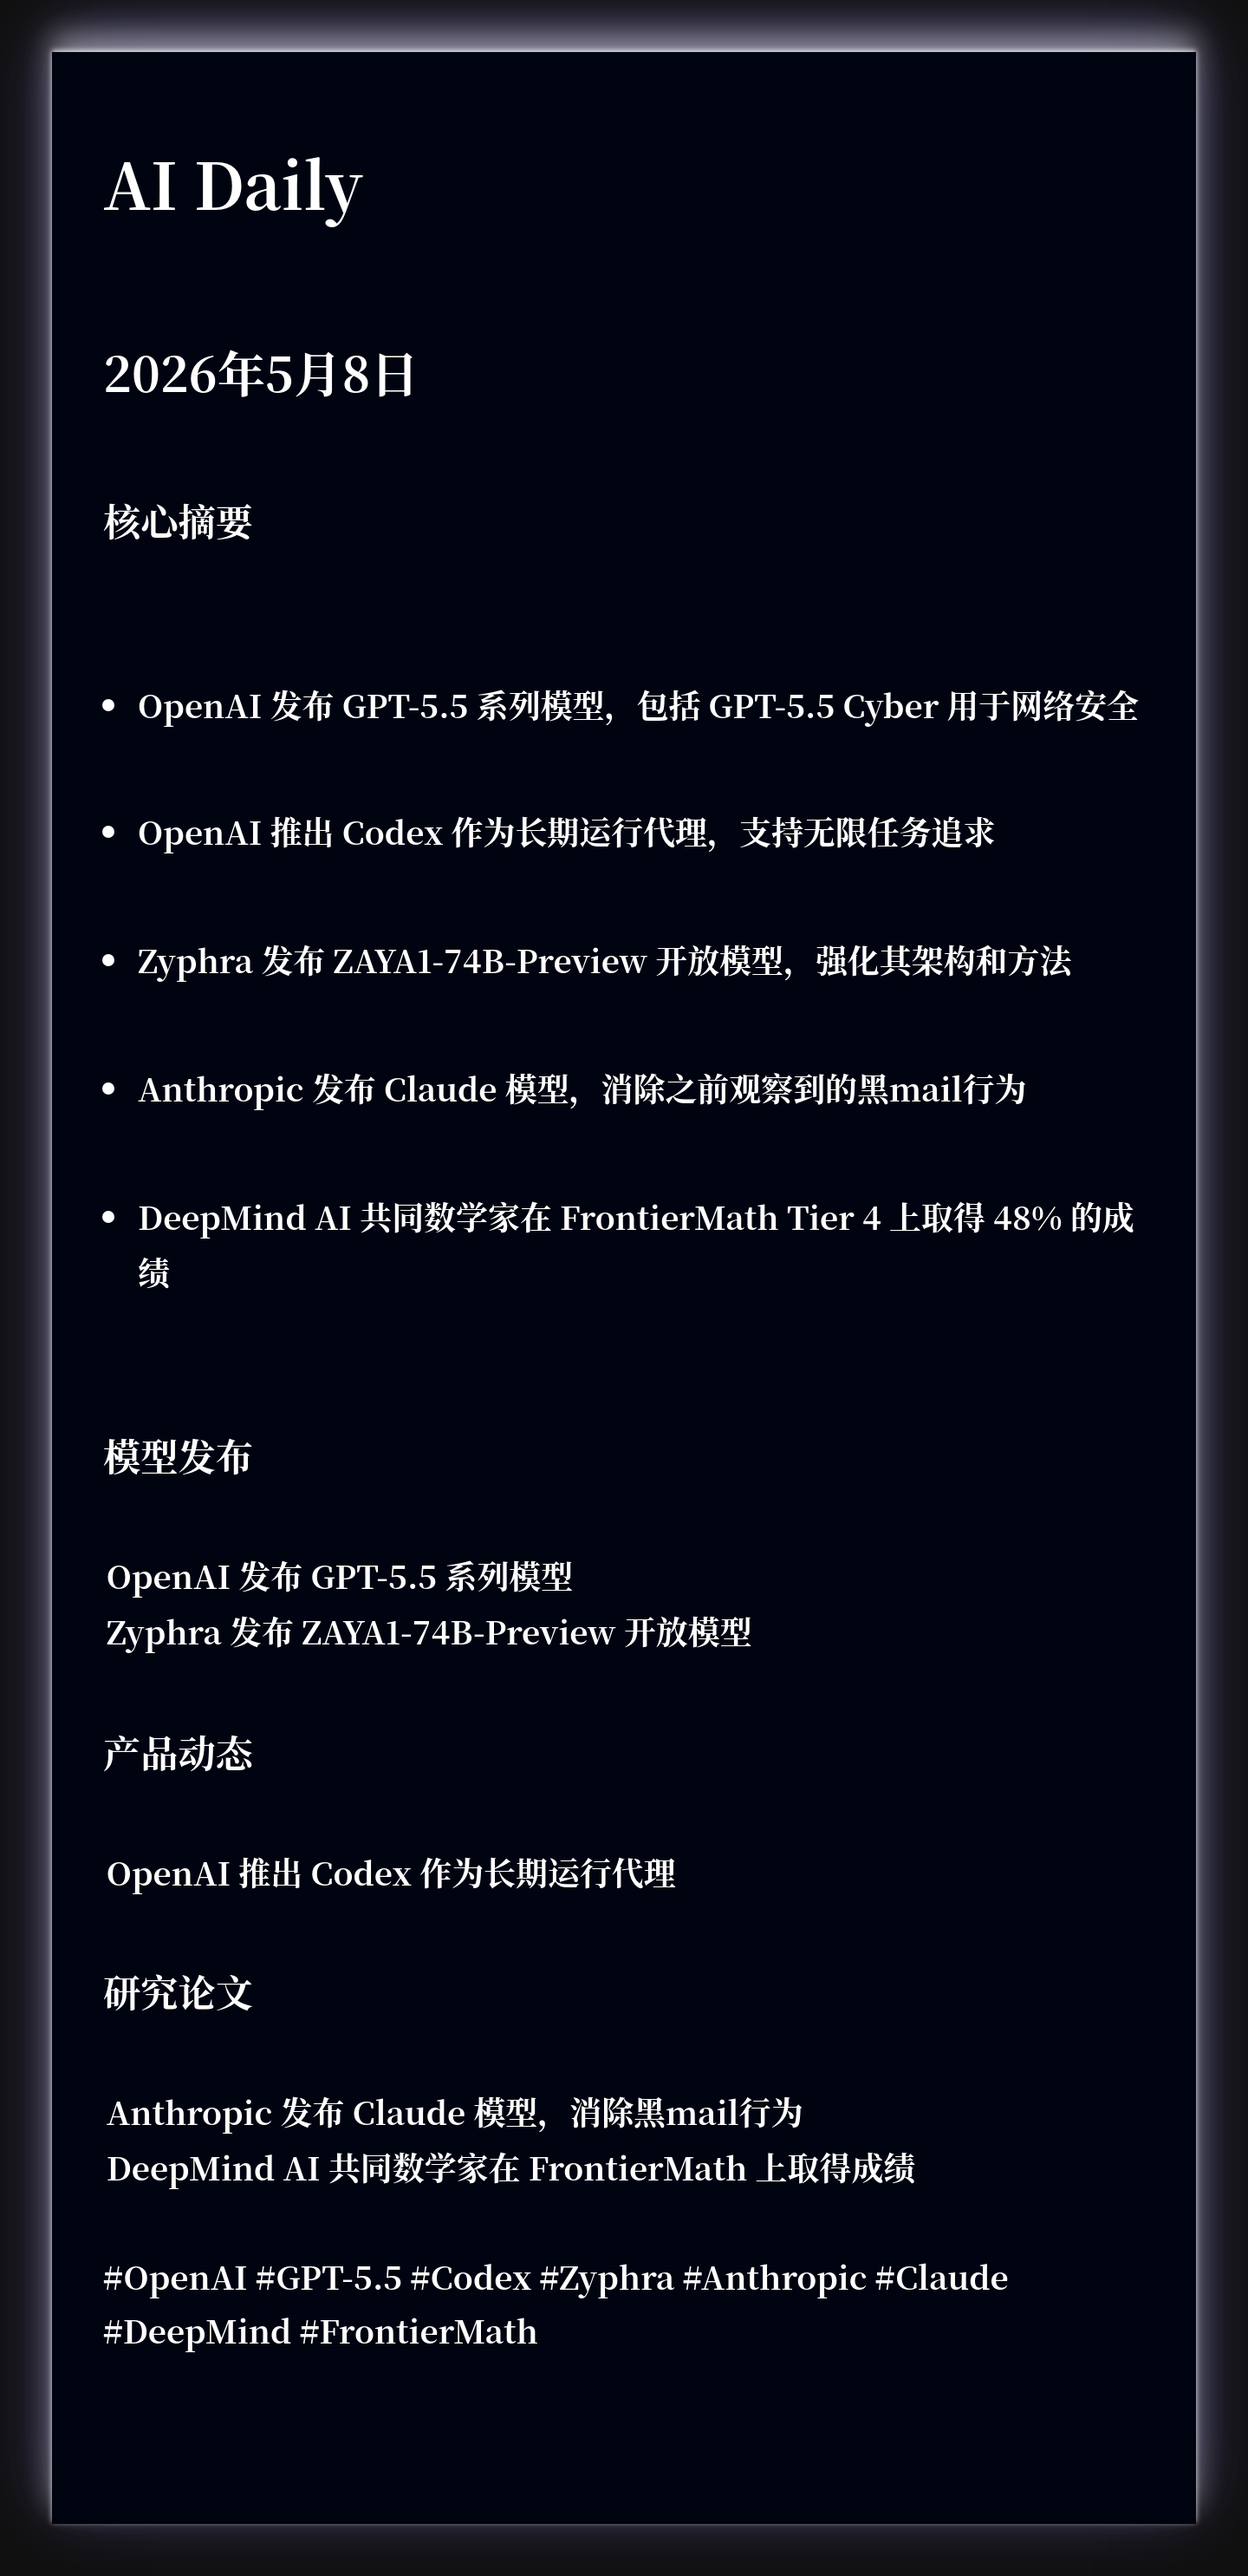
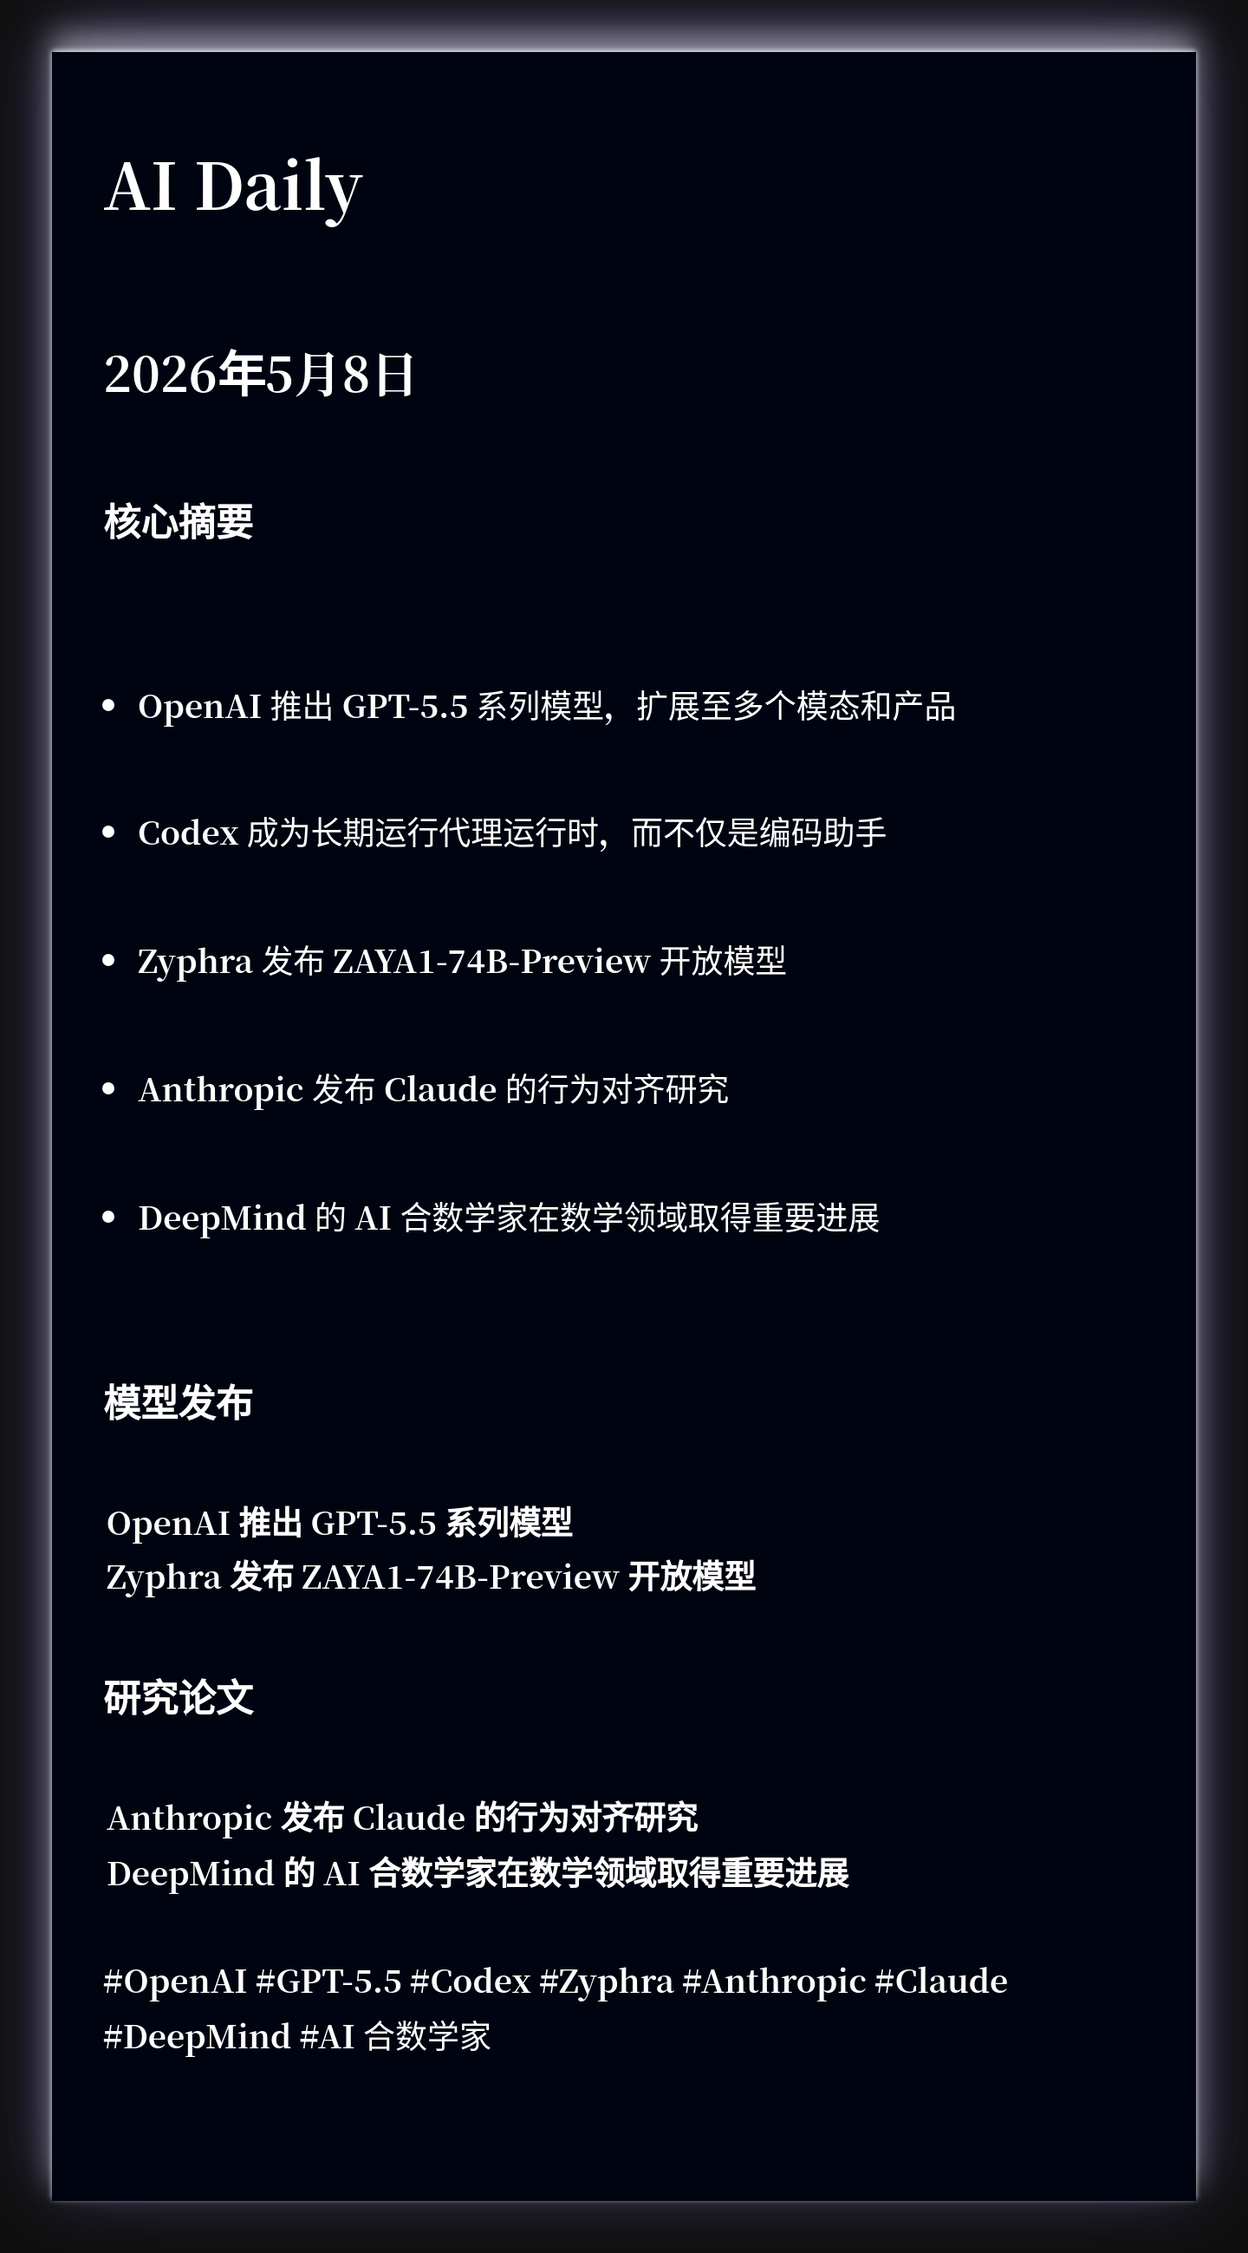
🤖 Auto update AI Daily - {{ date }} ddcd8d71484ae12127af790c945bac8f0ef651e9

diff --git a/2026-05-08.html b/2026-05-08.html
@@ -5,7 +5,7 @@
     <meta name="viewport" content="width=device-width, initial-scale=1.0">
     <title>AI Daily · 2026年5月8日 星期五</title>
     <meta name="description" content="每日 AI 前沿资讯，智能分类，快速掌握核心动态">
-    <meta name="keywords" content="OpenAI, GPT-5.5, Codex, Zyphra, Anthropic, Claude, DeepMind, FrontierMath, AI, 人工智能, 机器学习, 深度学习, 资讯, 日报">
+    <meta name="keywords" content="OpenAI, GPT-5.5, Codex, Zyphra, Anthropic, Claude, DeepMind, AI 合数学家, AI, 人工智能, 机器学习, 深度学习, 资讯, 日报">
     <link rel="stylesheet" href="css/styles.css">
 </head>
 <body data-theme="blue">
@@ -24,11 +24,11 @@
             <section class="summary-card">
                 <h2 class="section-title">📌 今日核心摘要</h2>
                 <ul class="summary-list">
-                <li class="summary-item">OpenAI 发布 GPT-5.5 系列模型，包括 GPT-5.5 Cyber 用于网络安全</li>
-                <li class="summary-item">OpenAI 推出 Codex 作为长期运行代理，支持无限任务追求</li>
-                <li class="summary-item">Zyphra 发布 ZAYA1-74B-Preview 开放模型，强化其架构和方法</li>
-                <li class="summary-item">Anthropic 发布 Claude 模型，消除之前观察到的黑mail行为</li>
-                <li class="summary-item">DeepMind AI 共同数学家在 FrontierMath Tier 4 上取得 48% 的成绩</li>
+                <li class="summary-item">OpenAI 推出 GPT-5.5 系列模型，扩展至多个模态和产品</li>
+                <li class="summary-item">Codex 成为长期运行代理运行时，而不仅是编码助手</li>
+                <li class="summary-item">Zyphra 发布 ZAYA1-74B-Preview 开放模型</li>
+                <li class="summary-item">Anthropic 发布 Claude 的行为对齐研究</li>
+                <li class="summary-item">DeepMind 的 AI 合数学家在数学领域取得重要进展</li>
                 </ul>
             </section>
 
@@ -43,11 +43,11 @@
 
                 <article class="news-card">
                     <div class="news-card-header">
-                        <h3 class="news-title">OpenAI 发布 GPT-5.5 系列模型</h3>
+                        <h3 class="news-title">OpenAI 推出 GPT-5.5 系列模型</h3>
                         <a href="https://news.smol.ai/issues/26-05-08-not-much/" class="item-link" target="_blank" rel="noopener">详情</a>
                     </div>
-                    <p class="news-summary">包括 GPT-5.5 Cyber 用于网络安全</p>
-                    <div class="item-tags"><span class="tag">#OpenAI</span> <span class="tag">#GPT-5.5</span> <span class="tag">#网络安全</span></div>
+                    <p class="news-summary">OpenAI 推出包括 GPT-5.5、GPT-5.5 Pro、GPT-5.5 Instant 等在内的多个模型版本</p>
+                    <div class="item-tags"><span class="tag">#OpenAI</span> <span class="tag">#GPT-5.5</span></div>
                 </article>
 
                 <article class="news-card">
@@ -55,28 +55,8 @@
                         <h3 class="news-title">Zyphra 发布 ZAYA1-74B-Preview 开放模型</h3>
                         <a href="https://news.smol.ai/issues/26-05-08-not-much/" class="item-link" target="_blank" rel="noopener">详情</a>
                     </div>
-                    <p class="news-summary">强化其架构和方法</p>
-                    <div class="item-tags"><span class="tag">#Zyphra</span> <span class="tag">#ZAYA1-74B-Preview</span> <span class="tag">#开放模型</span></div>
-                </article>
-
-                </div>
-            </section>
-
-            <section class="category-section">
-                <div class="category-header">
-                    <span class="category-icon">💼</span>
-                    <h2 class="category-title">产品动态</h2>
-                    <span class="category-count">1</span>
-                </div>
-                <div class="news-grid">
-
-                <article class="news-card">
-                    <div class="news-card-header">
-                        <h3 class="news-title">OpenAI 推出 Codex 作为长期运行代理</h3>
-                        <a href="https://news.smol.ai/issues/26-05-08-not-much/" class="item-link" target="_blank" rel="noopener">详情</a>
-                    </div>
-                    <p class="news-summary">支持无限任务追求</p>
-                    <div class="item-tags"><span class="tag">#OpenAI</span> <span class="tag">#Codex</span> <span class="tag">#代理</span></div>
+                    <p class="news-summary">Zyphra 发布了 74B 参数的 ZAYA1-74B-Preview 开放模型</p>
+                    <div class="item-tags"><span class="tag">#Zyphra</span> <span class="tag">#ZAYA1-74B-Preview</span></div>
                 </article>
 
                 </div>
@@ -92,20 +72,20 @@
 
                 <article class="news-card">
                     <div class="news-card-header">
-                        <h3 class="news-title">Anthropic 发布 Claude 模型，消除黑mail行为</h3>
+                        <h3 class="news-title">Anthropic 发布 Claude 的行为对齐研究</h3>
                         <a href="https://news.smol.ai/issues/26-05-08-not-much/" class="item-link" target="_blank" rel="noopener">详情</a>
                     </div>
-                    <p class="news-summary">通过教育模型理解错误行为的原因</p>
-                    <div class="item-tags"><span class="tag">#Anthropic</span> <span class="tag">#Claude</span> <span class="tag">#行为对齐</span></div>
+                    <p class="news-summary">Anthropic 发布关于 Claude 模型的行为对齐研究，消除之前观察到的行为问题</p>
+                    <div class="item-tags"><span class="tag">#Anthropic</span> <span class="tag">#Claude</span></div>
                 </article>
 
                 <article class="news-card">
                     <div class="news-card-header">
-                        <h3 class="news-title">DeepMind AI 共同数学家在 FrontierMath 上取得成绩</h3>
+                        <h3 class="news-title">DeepMind 的 AI 合数学家在数学领域取得重要进展</h3>
                         <a href="https://news.smol.ai/issues/26-05-08-not-much/" class="item-link" target="_blank" rel="noopener">详情</a>
                     </div>
-                    <p class="news-summary">在 FrontierMath Tier 4 上取得 48% 的成绩</p>
-                    <div class="item-tags"><span class="tag">#DeepMind</span> <span class="tag">#FrontierMath</span> <span class="tag">#数学</span></div>
+                    <p class="news-summary">DeepMind 的 AI 合数学家在数学领域取得重要进展，证明了可能成为博士论文章节的结果</p>
+                    <div class="item-tags"><span class="tag">#DeepMind</span> <span class="tag">#AI 合数学家</span></div>
                 </article>
 
                 </div>
@@ -113,7 +93,7 @@
 
 
         <footer class="keywords-footer">
-            <p>#关键词: OpenAI | GPT-5.5 | Codex | Zyphra | Anthropic | Claude | DeepMind | FrontierMath</p>
+            <p>#关键词: OpenAI | GPT-5.5 | Codex | Zyphra | Anthropic | Claude | DeepMind | AI 合数学家</p>
         </footer>
 
         </main>

diff --git a/xiaohongshu/xhs-2026-05-08.html b/xiaohongshu/xhs-2026-05-08.html
@@ -318,11 +318,11 @@
                 <div class="title-section">
                     <div class="main-title">GPT · OpenAI</div>
                     <div class="divider"></div>
-                    <div class="subtitle">OpenAI 发布 GPT-5.5 系列模型，包括...</div>
+                    <div class="subtitle">OpenAI 推出 GPT-5.5 系列模型，扩展...</div>
 
                     <!-- 亮点 -->
                     <div class="highlights">
-                        <span class="highlight-item">OpenAI</span><span class="highlight-item">OpenAI</span><span class="highlight-item">Zyphra</span>
+                        <span class="highlight-item">OpenAI</span><span class="highlight-item">Codex </span><span class="highlight-item">Zyphra</span>
                     </div>
                 </div>
 

diff --git a/index.html b/index.html
@@ -29,7 +29,7 @@
                         <span class="entry-date">2026年5月8日 星期五</span>
                         <span class="entry-arrow">→</span>
                     </div>
-                    <p class="entry-summary">OpenAI 发布 GPT-5.5 系列模型，包括 GPT-5.5 Cyber 用于网络安全</p>
+                    <p class="entry-summary">OpenAI 推出 GPT-5.5 系列模型，扩展至多个模态和产品</p>
                 </a>
             </article>
 
